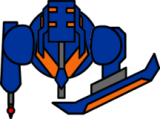
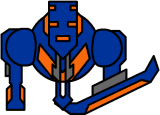
Updated player images

diff --git a/js/game.js b/js/game.js
@@ -33,6 +33,11 @@ window.onload = function() {
         //gameScreen = new TitleScreen();
     });
     
+    // Cancel the context menu
+    element.oncontextmenu = function(e) {
+        return false;
+    };
+    
     window.onresize = ResizeCanvas;
     ResizeCanvas();
     
